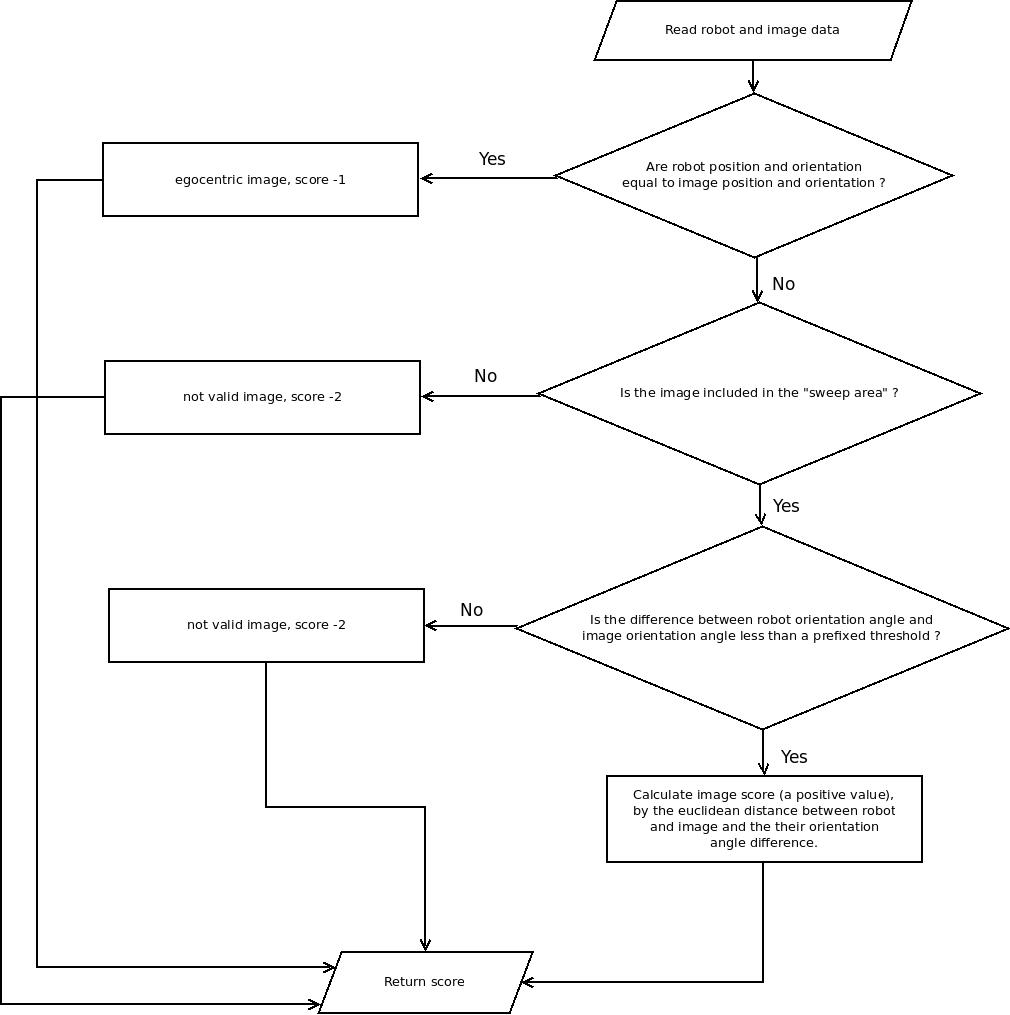
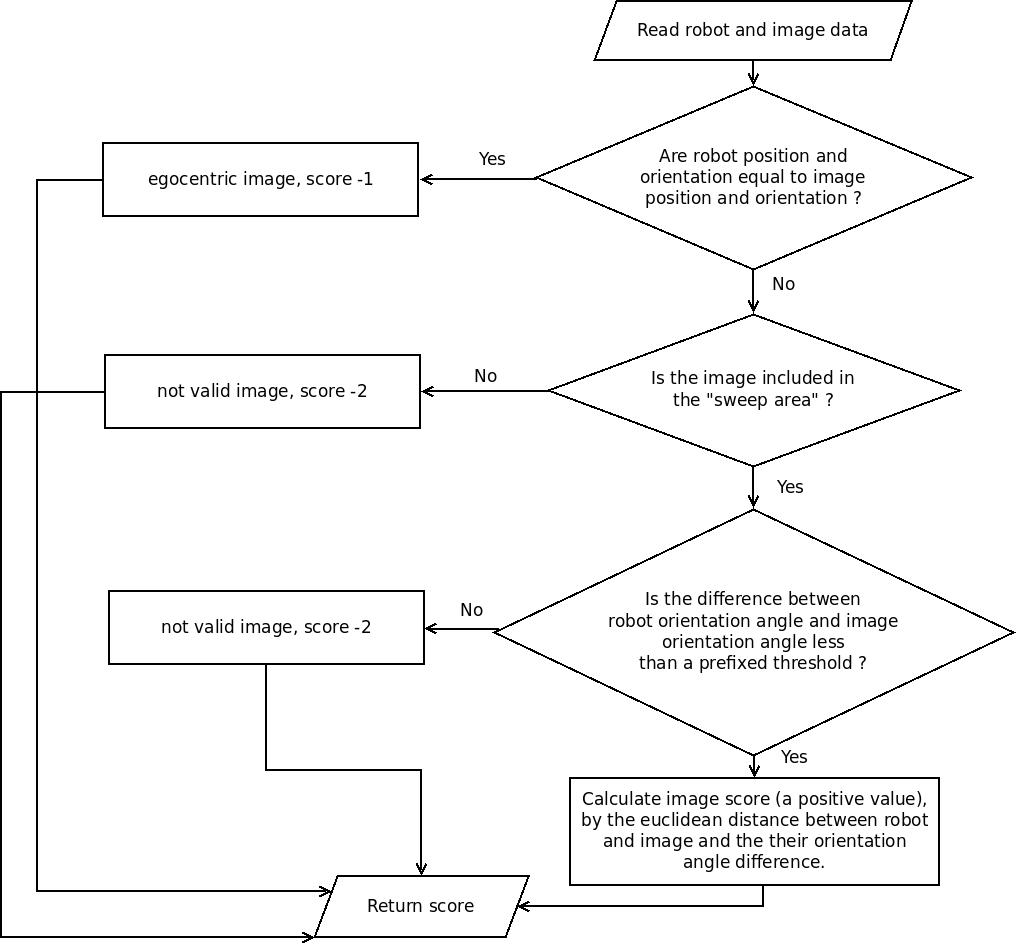
hyperlink added in report; sweep_angle_diagram.dia edited; future work section added.

diff --git a/trunk/report/rear.tex b/trunk/report/rear.tex
@@ -193,6 +193,13 @@ After excluding the badly oriented images, we proceed with the score assignment.
 the sum of two factors. The first takes in account the image angle orientation: the more the image orientation
 angle is close to the robot orientation angle, the more the score is high.
 %
+\begin{figure}[!h]
+  \begin{center}
+    \includegraphics[width=400pt]{img/sweep_angle_diagram.jpeg} 
+    \caption{Sweep angle diagram}
+    \label{fig:sweep_angle_diagram}
+  \end{center}
+\end{figure}
 
 %
 The function to evaluate the score from the difference between the two angles is a Gaussian function centre
@@ -227,18 +234,11 @@ difference. The values obtained from the two Gaussian functions, after adding th
 %
 
 %
-To summarize the method above illustrated (illustrated in figure \ref{fig:sweep_angle_diagram}), we coupled
+To summarize the method above described (illustrated in figure \ref{fig:sweep_angle_diagram}), we coupled
 every image with a score: the one with the maximum value will be chosen and put as background. If the image is
 not included in the sweep area (defined by a sweep angle and therefore by the "c" and "d" line) it has to be
 discarded. The score assigned will be -2.
 %
-\begin{figure}[!h]
-  \begin{center}
-    \includegraphics[width=400pt]{img/sweep_angle_diagram.jpeg} 
-    \caption{Sweep angle diagram}
-    \label{fig:sweep_angle_diagram}
-  \end{center}
-\end{figure}
 
 %
 The images situated within the sweep area, but with an orientation angle that differs too much from the robot

diff --git a/trunk/report/report.tex b/trunk/report/report.tex
@@ -9,6 +9,7 @@
 \usepackage{epsfig}
 \usepackage{fancyvrb}
 \usepackage{listings}
+\usepackage[colorlinks=true, linkcolor = black, urlcolor  = black, citecolor = black, filecolor = black ]{hyperref}
 \date{}
 
 \lstset{
@@ -37,6 +38,12 @@
 \include{future_works}
 
 % Bibliography with BibTeX
+
+% see http://www.tex.ac.uk/cgi-bin/texfaq2html?label=tocbibind
+% for more details about the following command needed
+% for hyperlinking correctly the bibliography
+\cleardoublepage
+\phantomsection
 
 \addcontentsline{toc}{section}{Bibliography}
 \bibliography{biblio}
